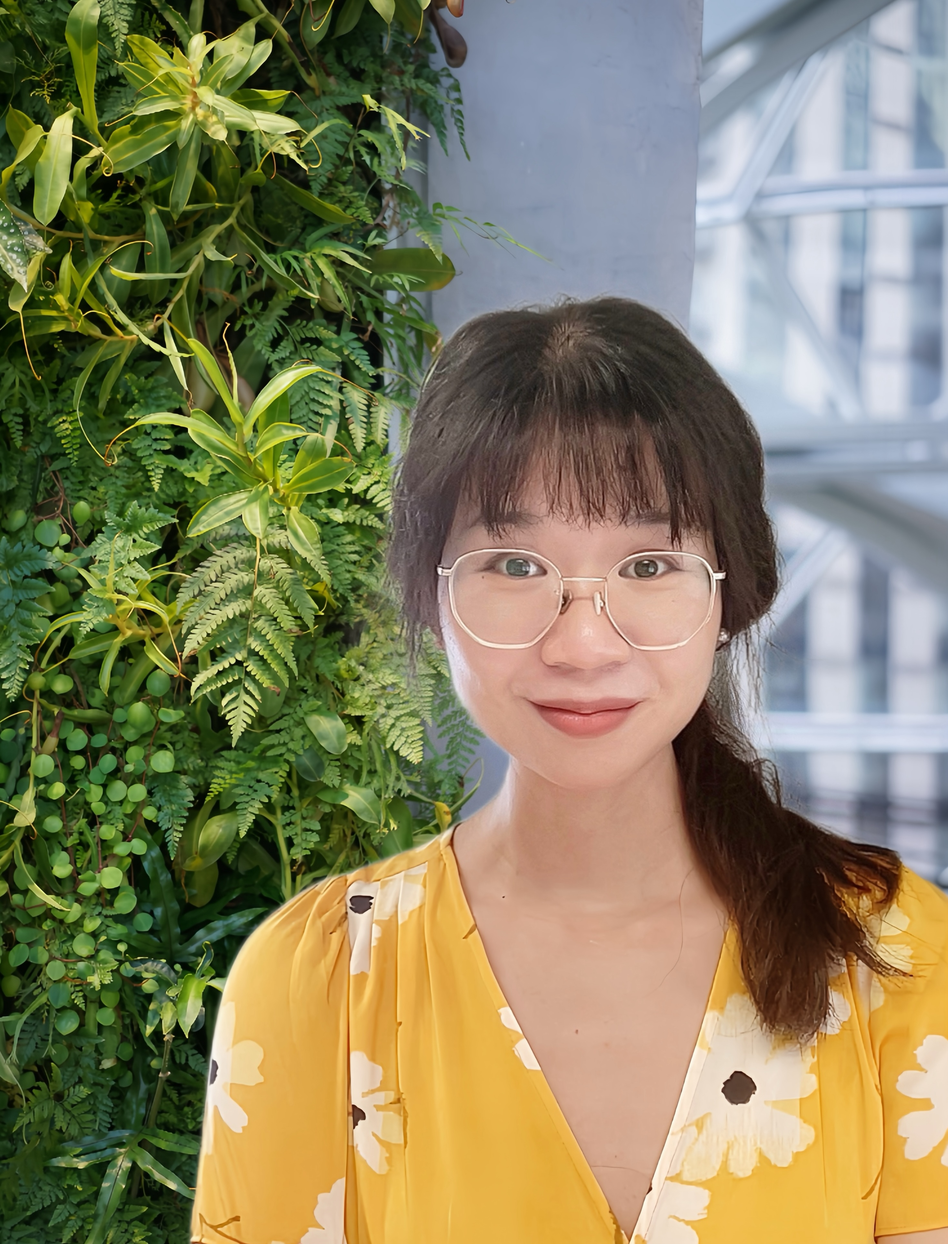
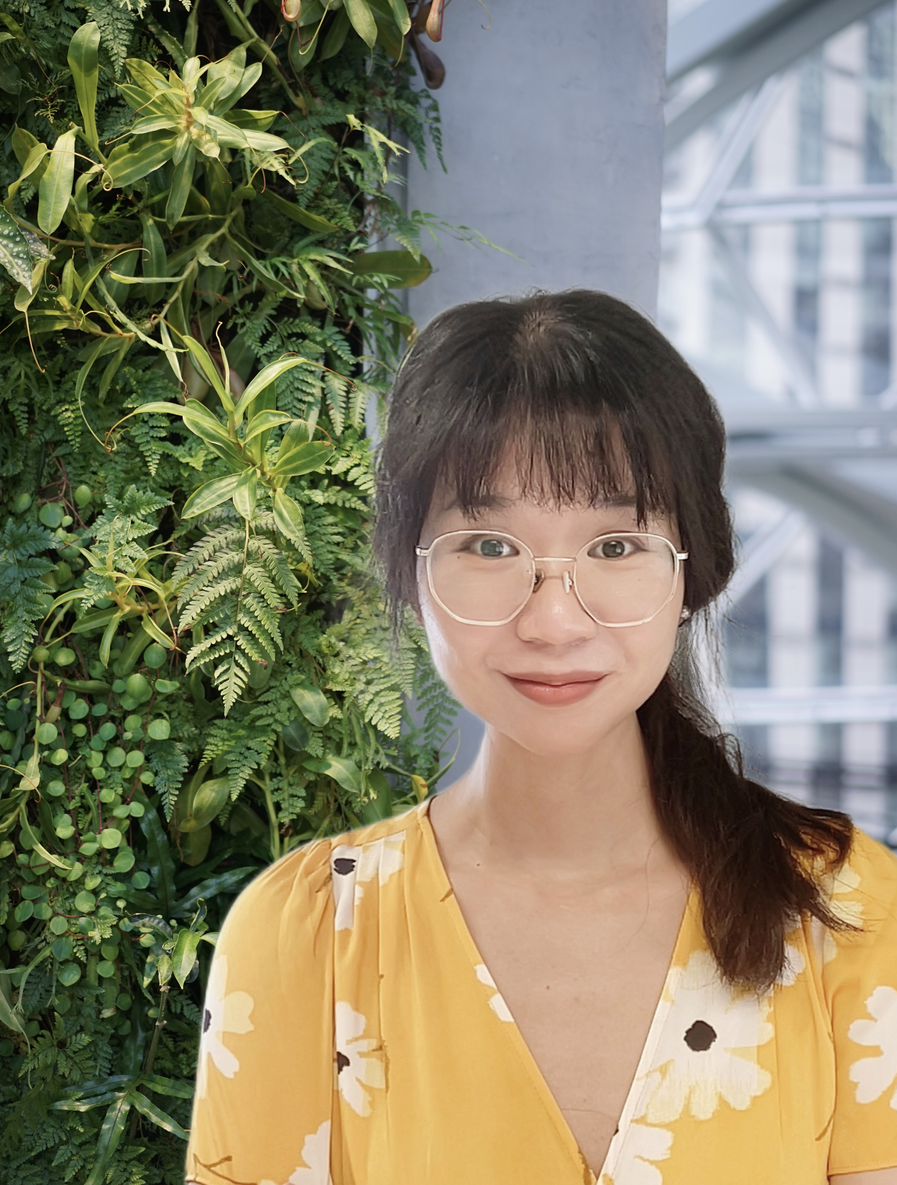
update

diff --git a/index.html b/index.html
@@ -58,7 +58,7 @@ body,h1,h2,h3,h4,h5,h6 {font-family: "Raleway", sans-serif}
 	</p>
 
     <p> 
-        Before joining UCL, I spent two and a half wonderful years as an assistant professor at the Hong Kong University of Science and Technology. In 2022, I was a postdoc at the Stanford Graduate School of Business. Earlier, I worked full-time at Kuaishou Technology (2021–2022) and spent the summers of 2019 and 2020 at Google Research. In 2021, I completed my MS in Statistics and PhD in Computational and Applied Mathematics at Stanford University, where I was advised by <a href="https://athey.people.stanford.edu">Susan Athey</a>. Before that, I received my BS in mathematics from Peking University (2017).
+        Before joining UCL, I spent two and a half wonderful years as an assistant professor at the Hong Kong University of Science and Technology. In 2022, I was a postdoc at the Stanford Graduate School of Business. Earlier, I worked full-time at Kuaishou Technology (2021–2022) and spent the summers of 2019 and 2020 at Google Research. In 2021, I completed my MS in Statistics and PhD in Computational and Applied Mathematics at Stanford University, where I was advised by Susan Athey. Before that, I received my BS in mathematics from Peking University (2017).
 
     </p>
       
